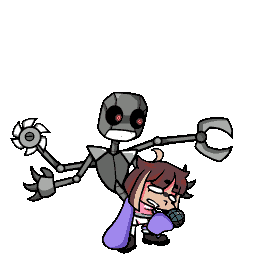
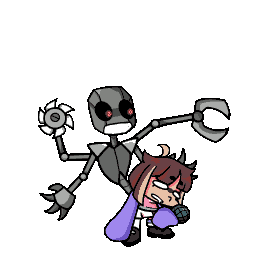
amogusus

Changed region(s): [[0.0312, 0.3125, 0.9375, 1.0]]

diff --git a/src/stage/week2.c b/src/stage/week2.c
@@ -222,7 +222,7 @@ static const CharFrame smoke_frame[18] = {
 static const Animation smoke_anim[1] = {
 
 	//idle smoke
-	{2, (const u8[]){0, 1, 2, 3, 4, 5, 6, 7, 8, 9, 6, 7, 8, 9, 6, 7, 8, 9, 6, 7, 8, 9, 6, 7, 8, 9, 6, 7, 8, 9, 6, 7, 8, 9, 6, 7, 8, 9, 6, 7, 8, 9, 6, 7, 8, 9, 6, 7, 8, 9, 6, 7, 8, 9, 6, 7, 8, 9, 6, 7, 8, 9, 6, 7, 8, 9, 6, 7, 8, 9, 6, 7, 8, 9, 6, 7, 8, 9, 6, 7, 8, 9, 6, 7, 8, 9, 6, 7, 8, 9, 6, 7, 8, 9, 6, 7, 8, 9, 6, 7, 8, 9, 6, 7, 8, 9, 6, 7, 8, 9, 6, 7, 8, 9, 6, 7, 8, 9, 6, 7, 8, 9, 6, 7, 8, 9, 6, 7, 8, 9, 6, 7, 8, 9, 6, 7, 8, 9, 10, 11, 12, 13, 14, 15, 16, 17, ASCR_BACK, 0}}, 
+	{2, (const u8[]){0, 1, 2, 3, 4, 5, 6, 7, 8, 9, 10, 11, 12, 13, 14, 15, 16, 17, ASCR_BACK, 0}}, 
 };
 
 //tv0 functions
@@ -505,7 +505,7 @@ void Back_Week2_DrawFG(StageBack *back)
 	Animatable_Animate(&this->smoke_animatable, (void*)this, Week2_smoke_SetFrame);	
 	Week2_smoke_Draw(this, FIXED_DEC(120,1), FIXED_DEC(120,1));
 
-	if (cooldown == 70)
+	if (cooldown == 38)
 	{
 	cooldown = 0;
 	smoke = 0;
@@ -520,12 +520,6 @@ void Back_Week2_DrawBG(StageBack *back)
 	fx = stage.camera.x;
 	fy = stage.camera.y;
 
-	//idle tv
-	Animatable_Animate(&this->tv0left_animatable, (void*)this, Week2_tv0l_SetFrame);
-	Week2_tv0l_Draw(this, FIXED_DEC(40,1) - fx, FIXED_DEC(37,1) - fy);
-    
-	Animatable_Animate(&this->tv0right_animatable, (void*)this, Week2_tv0_SetFrame);
-	Week2_tv0_Draw(this, FIXED_DEC(360,1) - fx, FIXED_DEC(43,1) - fy);
 /*
 	░█████╗░░█████╗░██████╗░███████╗██╗░░░░░███████╗░██████╗░██████╗
 	██╔══██╗██╔══██╗██╔══██╗██╔════╝██║░░░░░██╔════╝██╔════╝██╔════╝
@@ -623,19 +617,9 @@ void Back_Week2_DrawBG(StageBack *back)
 	░╚════╝░░░░╚═╝░░░╚══════╝╚═╝░░╚═╝╚══════╝░╚════╝░╚═╝░░╚═╝╚═════╝░*/
 
 	case StageId_1_3:
-      
-	 if (stage.timercount >= 13392)
-	{
-
-    Animatable_Animate(&this->tv0bsodleft_animatable, (void*)this, Week2_tv0l_SetFrame);
     
-	Animatable_Animate(&this->tv0bsodright_animatable, (void*)this, Week2_tv0_SetFrame);
-
-	
-
-  }
 	//eye
-    if (stage.song_step >= 256 && stage.song_step <= 316)
+    if (stage.timercount >= 1311 && stage.timercount <= 1613)
 	{
 	Animatable_Animate(&this->tv0eyeleft_animatable, (void*)this, Week2_tv0l_SetFrame);
 
@@ -643,7 +627,7 @@ void Back_Week2_DrawBG(StageBack *back)
 	}
 	
     //drop
-	if (stage.song_step >= 960 && stage.song_step <= 1215)
+	if (stage.timercount >= 4629 && stage.timercount <= 5836)
 	{
 	Animatable_Animate(&this->tv0dicleft_animatable, (void*)this, Week2_tv0l_SetFrame);
     
@@ -651,7 +635,7 @@ void Back_Week2_DrawBG(StageBack *back)
 	}
 
     //warning
-	if (stage.song_step >= 1216 && stage.song_step <= 1728)
+	if (stage.timercount >= 5837 && stage.timercount <= 8256)
 	{
 	Animatable_Animate(&this->tv0wleft_animatable, (void*)this, Week2_tv0l_SetFrame);
 
@@ -659,7 +643,7 @@ void Back_Week2_DrawBG(StageBack *back)
 	}
 
     //eye
-	if (stage.song_step >= 2232 && stage.song_step <= 2240)
+	if (stage.timercount >= 10634 && stage.timercount <= 10671)
 	{
 	Animatable_Animate(&this->tv0eyeleft_animatable, (void*)this, Week2_tv0l_SetFrame);
     
@@ -667,7 +651,7 @@ void Back_Week2_DrawBG(StageBack *back)
 	}
 
 	//error
-	if (stage.song_step >= 2808 && stage.song_step <= 2815)
+	if (stage.timercount >= 13354 && stage.timercount <= 13392)
 	{
 	Animatable_Animate(&this->tv0errleft_animatable, (void*)this, Week2_tv0l_SetFrame);
     
@@ -675,7 +659,7 @@ void Back_Week2_DrawBG(StageBack *back)
 	}
 
 	//bsod
-	if (stage.song_step >= 2816 && stage.song_step <= 3326)
+	if (stage.timercount >= 13392 && stage.timercount <= 15811)
 	{
 	Animatable_Animate(&this->tv0bsodleft_animatable, (void*)this, Week2_tv0l_SetFrame);
     
@@ -683,7 +667,7 @@ void Back_Week2_DrawBG(StageBack *back)
 	}
 
     //warning
-	if (stage.song_step >= 3327 && stage.song_step <= 3840)
+	if (stage.timercount >= 15812 && stage.timercount <= 18237)
 	{
 	Animatable_Animate(&this->tv0wleft_animatable, (void*)this, Week2_tv0l_SetFrame);
 
@@ -696,8 +680,32 @@ break;
 
 
 }
+
+
+/*	████████╗███████╗██████╗░███╗░░░███╗██╗███╗░░██╗░█████╗░████████╗███████╗
+	╚══██╔══╝██╔════╝██╔══██╗████╗░████║██║████╗░██║██╔══██╗╚══██╔══╝██╔════╝
+	░░░██║░░░█████╗░░██████╔╝██╔████╔██║██║██╔██╗██║███████║░░░██║░░░█████╗░░
+	░░░██║░░░██╔══╝░░██╔══██╗██║╚██╔╝██║██║██║╚████║██╔══██║░░░██║░░░██╔══╝░░
+	░░░██║░░░███████╗██║░░██║██║░╚═╝░██║██║██║░╚███║██║░░██║░░░██║░░░███████╗
+	░░░╚═╝░░░╚══════╝╚═╝░░╚═╝╚═╝░░░░░╚═╝╚═╝╚═╝░░╚══╝╚═╝░░╚═╝░░░╚═╝░░░╚══════╝ */ 
+
+	//error
+	if (stage.stage_id == StageId_2_1 && stage.timercount >= 602)
+	{
+	Animatable_Animate(&this->tv0errleft_animatable, (void*)this, Week2_tv0l_SetFrame);
+    
+	Animatable_Animate(&this->tv0errright_animatable, (void*)this, Week2_tv0_SetFrame);
+	}
+
+	//idle tv
+	Animatable_Animate(&this->tv0left_animatable, (void*)this, Week2_tv0l_SetFrame);
+	Week2_tv0l_Draw(this, FIXED_DEC(40,1) - fx, FIXED_DEC(37,1) - fy);
+    
+	Animatable_Animate(&this->tv0right_animatable, (void*)this, Week2_tv0_SetFrame);
+	Week2_tv0_Draw(this, FIXED_DEC(360,1) - fx, FIXED_DEC(43,1) - fy);
+	
 	//Draw bsod background
-	if (stage.stage_id == StageId_1_3 && stage.timercount >= 13392) 
+	if (stage.stage_id == StageId_1_3 && stage.timercount >= 13392 && stage.timercount <=15811) 
 	{
 	RECT bsod_src = {0, 0, 256, 256};
 	RECT_FIXED bsod_dst = {
@@ -711,7 +719,7 @@ break;
 	}
 
 	//Draw error background
-	if (stage.stage_id == StageId_1_3 && stage.song_step >= 2808 && stage.song_step <= 2815) 
+	if (stage.stage_id == StageId_1_3 && stage.timercount >=13354 && stage.timercount <= 13392) 
 	{
 	RECT error_src = {0, 0, 256, 256};
 	RECT_FIXED error_dst = {

diff --git a/src/character/bot.c b/src/character/bot.c
@@ -18,28 +18,14 @@ enum
 	bot_ArcMain_Idle1,
 	bot_ArcMain_Idle2,
 	bot_ArcMain_Idle3,
-	bot_ArcMain_Idle4,
-	bot_ArcMain_Idle5,
-	bot_ArcMain_Idle6,
-	bot_ArcMain_Idle7,
-	bot_ArcMain_Idle8,
-	bot_ArcMain_Idle9,
 	bot_ArcMain_Left0,
 	bot_ArcMain_Left1,
-	bot_ArcMain_Left2,
-	bot_ArcMain_Left3,
 	bot_ArcMain_Down0,
 	bot_ArcMain_Down1,
-	bot_ArcMain_Down2,
-	bot_ArcMain_Down3,
 	bot_ArcMain_Up0,
 	bot_ArcMain_Up1,
-	bot_ArcMain_Up2,
-	bot_ArcMain_Up3,
 	bot_ArcMain_Right0,
 	bot_ArcMain_Right1,
-	bot_ArcMain_Right2,
-	bot_ArcMain_Right3,
 	
 	bot_Arc_Max,
 };
@@ -60,46 +46,33 @@ typedef struct
 //bot character definitions
 static const CharFrame char_bot_frame[] = {
 	{bot_ArcMain_Idle0, {  18,   89, 202, 163}, { 114, 163}}, 
-	{bot_ArcMain_Idle1, {  17,   93, 217, 161}, { 123, 161}}, 
-	{bot_ArcMain_Idle2, {  10,   88, 223, 161}, { 124, 161}}, 
-	{bot_ArcMain_Idle3, {  10,   92, 223, 162}, { 126, 162}}, 
-	{bot_ArcMain_Idle4, {  8,    93, 214, 162}, { 120, 162}},  
-	{bot_ArcMain_Idle5, {  27,   90, 200, 163}, { 106, 163}},  
-	{bot_ArcMain_Idle6, {  38,   86, 193, 161}, { 103, 161}},  
-	{bot_ArcMain_Idle7, {  37,   86, 188, 163}, { 103, 163}},  
-	{bot_ArcMain_Idle8, {  36,   86, 191, 165}, { 103, 165}},  
-	{bot_ArcMain_Idle9, {  30,   83, 200, 166}, { 112, 166}},  
+	{bot_ArcMain_Idle1, {  10,   88, 223, 161}, { 124, 161}}, 
+	{bot_ArcMain_Idle2, {  8,    93, 214, 162}, { 120, 162}},  
+	{bot_ArcMain_Idle3, {  38,   86, 193, 161}, { 103, 161}}, 
 	
 	{bot_ArcMain_Left0, {  17,   62, 186, 190}, { 144, 190}},  
 	{bot_ArcMain_Left1, {  39,   61, 186, 191}, { 141, 191}},  
-	{bot_ArcMain_Left2, {  13,   56, 183, 197}, { 141, 197}},  
-	{bot_ArcMain_Left3, {  34,   49, 182, 199}, { 141, 199}},  
 	
 	{bot_ArcMain_Down0, {  32,   106, 178, 147}, { 121, 147}},  
 	{bot_ArcMain_Down1, {  14,   106, 182, 146}, { 120, 146}},  
-	{bot_ArcMain_Down2, {  25,   98,  192, 144}, { 121, 144}},  
-	{bot_ArcMain_Down3, {  29,   108, 203, 140}, { 127, 140}}, 
+
 	
 	{bot_ArcMain_Up0, {  18,   58, 206, 193}, { 123, 193}},  
-	{bot_ArcMain_Up1, {  13,   60, 207, 193}, { 124, 193}},  
-	{bot_ArcMain_Up2, {  25,   52, 201, 192}, { 122, 192}},  
-	{bot_ArcMain_Up3, {  25,   54, 199, 194}, { 119, 194}},  
+	{bot_ArcMain_Up1, {  13,   60, 207, 193}, { 124, 193}},   
 
 	{bot_ArcMain_Right0, {  55,   103, 150, 151}, { 52, 151}},  
-	{bot_ArcMain_Right1, {  61,   100, 151, 151}, { 53, 151}},  
-	{bot_ArcMain_Right2, {  66,   103, 146, 152}, { 54, 152}},  
-	{bot_ArcMain_Right3, {  67,   99, 141, 152}, { 54, 152}},  
+	{bot_ArcMain_Right1, {  61,   100, 151, 151}, { 53, 151}},   
 };
 
 static const Animation char_bot_anim[CharAnim_Max] = {
-    {2, (const u8[]){ 0, 1, 2, 3, 4, 5, 6, 7, 8, 9, ASCR_CHGANI, CharAnim_Idle}}, //CharAnim_Idle
-	{2, (const u8[]){ 10, 11, 12, 13, ASCR_BACK, 1}},         //CharAnim_Left
+    {2, (const u8[]){ 0, 1, 1, 2, 3, ASCR_CHGANI, CharAnim_Idle}}, //CharAnim_Idle
+	{2, (const u8[]){ 4, 5, ASCR_BACK, 1}},         //CharAnim_Left
 	{0, (const u8[]){ASCR_CHGANI, CharAnim_Idle}},   //CharAnim_LeftAlt
-	{2, (const u8[]){ 14, 15, 16, 17, ASCR_BACK, 1}},         //CharAnim_Down
+	{2, (const u8[]){ 6, 7, ASCR_BACK, 1}},         //CharAnim_Down
 	{0, (const u8[]){ASCR_CHGANI, CharAnim_Idle}},   //CharAnim_DownAlt
-	{2, (const u8[]){ 18, 19, 20, 21, ASCR_BACK, 1}},         //CharAnim_Up
+	{2, (const u8[]){ 8, 9, ASCR_BACK, 1}},         //CharAnim_Up
 	{0, (const u8[]){ASCR_CHGANI, CharAnim_Idle}},   //CharAnim_UpAlt
-	{2, (const u8[]){ 22, 23, 24, 25, ASCR_BACK, 1}},         //CharAnim_Right
+	{2, (const u8[]){ 10, 11, ASCR_BACK, 1}},         //CharAnim_Right
 	{0, (const u8[]){ASCR_CHGANI, CharAnim_Idle}},   //CharAnim_RightAlt
 };
 
@@ -182,28 +155,14 @@ Character *Char_bot_New(fixed_t x, fixed_t y)
 		"idle1.tim", 
 		"idle2.tim", 
 		"idle3.tim", 
-		"idle4.tim", 
-		"idle5.tim", 
-		"idle6.tim", 
-		"idle7.tim", 
-		"idle8.tim", 
-		"idle9.tim", 
 		"left0.tim", 
 		"left1.tim", 
-		"left2.tim", 
-		"left3.tim", 
 		"down0.tim",  
-		"down1.tim",  
-		"down2.tim",  
-		"down3.tim",  
+		"down1.tim",   
 		"up0.tim", 
 		"up1.tim", 
-		"up2.tim", 
-		"up3.tim",    
 		"right0.tim", 
 		"right1.tim", 
-		"right2.tim", 
-		"right3.tim", 
 		NULL
 	};
 	IO_Data *arc_ptr = this->arc_ptr;

diff --git a/src/character/gf.c b/src/character/gf.c
@@ -20,6 +20,7 @@ enum
 	GF_ArcMain_BopLeft,
 	GF_ArcMain_BopRight,
 	GF_ArcMain_Cry,
+	GF_ArcMain_UpAlt,
 	
 	GF_Arc_Max,
 };
@@ -39,8 +40,6 @@ typedef struct
 	//Speaker
 	Speaker speaker;
 	
-	//Pico test
-	u16 *pico_p;
 } Char_GF;
 
 //GF character definitions
@@ -61,6 +60,11 @@ static const CharFrame char_gf_frame[] = {
 	
 	{GF_ArcMain_Cry, {  0,   0,  73, 101}, { 37,  73}}, //12 cry
 	{GF_ArcMain_Cry, { 73,   0,  73, 101}, { 37,  73}}, //13 cry
+
+	{GF_ArcMain_UpAlt, {  0,   0,  77, 98}, { 43,  74}}, //14
+	{GF_ArcMain_UpAlt, {  77,   0,  77, 98}, { 43,  74}}, //15
+	{GF_ArcMain_UpAlt, {  0,   98,  77, 98}, { 43,  74}}, //16
+	{GF_ArcMain_UpAlt, {  77,   98,  77, 98}, { 43,  74}}, //17
 };
 
 static const Animation char_gf_anim[CharAnim_Max] = {
@@ -68,9 +72,9 @@ static const Animation char_gf_anim[CharAnim_Max] = {
 	{1, (const u8[]){ 0,  0,  1,  1,  2,  2,  3,  4,  4,  5, ASCR_BACK, 1}}, //CharAnim_Left
 	{0, (const u8[]){ASCR_CHGANI, CharAnim_Left}},                           //CharAnim_LeftAlt
 	{2, (const u8[]){12, 13, ASCR_REPEAT}},                                  //CharAnim_Down
-	{0, (const u8[]){ASCR_CHGANI, CharAnim_Left}},                           //CharAnim_DownAlt
+	{2, (const u8[]){ 14, 15, 16, 17, ASCR_BACK, 1}},                           //CharAnim_DownAlt
 	{0, (const u8[]){ASCR_CHGANI, CharAnim_Left}},                           //CharAnim_Up
-	{0, (const u8[]){ASCR_CHGANI, CharAnim_Left}},                           //CharAnim_UpAlt
+	{2, (const u8[]){ 14, 15, 16, 17, ASCR_BACK, 1}},         //CharAnim_UpAlt
 	{1, (const u8[]){ 6,  6,  7,  7,  8,  8,  9, 10, 10, 11, ASCR_BACK, 1}}, //CharAnim_Right
 	{0, (const u8[]){ASCR_CHGANI, CharAnim_Left}},                           //CharAnim_RightAlt
 };
@@ -94,13 +98,23 @@ void Char_GF_Tick(Character *character)
 {
 	Char_GF *this = (Char_GF*)character;
 	
-	
+	if (stage.stage_id == StageId_1_3 && stage.timercount >= 13392 && stage.timercount <= 15811)
+	character->set_anim(character, CharAnim_UpAlt);
+
 		if (stage.flag & STAGE_FLAG_JUST_STEP)
 		{
 			//Perform dance
 			if ((stage.song_step % stage.gf_speed) == 0)
 			{
 				//Switch animation
+
+				if (character->animatable.anim == CharAnim_Left && stage.stage_id == StageId_1_3 && stage.timercount >= 13392 && stage.timercount <= 15811)
+                    character->set_anim(character, CharAnim_UpAlt);
+
+			    if (character->animatable.anim == CharAnim_Right && stage.stage_id == StageId_1_3 && stage.timercount >= 13392 && stage.timercount <= 15811)
+                    character->set_anim(character, CharAnim_DownAlt);
+
+
 				if (character->animatable.anim == CharAnim_Left)
 					character->set_anim(character, CharAnim_Right);
 				else
@@ -169,6 +183,7 @@ Character *Char_GF_New(fixed_t x, fixed_t y)
 		"bopleft.tim",  //GF_ArcMain_BopLeft
 		"bopright.tim", //GF_ArcMain_BopRight
 		"cry.tim",      //GF_ArcMain_Cry
+		"scared.tim",      //GF_ArcMain_Cry
 		NULL
 	};
 	IO_Data *arc_ptr = this->arc_ptr;

diff --git a/src/stagedef_disc1.h b/src/stagedef_disc1.h
@@ -12,7 +12,7 @@
 		1, 1,
 		XA_Bopeebo, 0,
 		
-		StageId_1_2, STAGE_LOAD_FLAG
+		StageId_1_2, STAGE_LOAD_FLAG | STAGE_LOAD_STAGE | STAGE_LOAD_OPPONENT
 	},
 	{ //StageId_1_2 (Careless)
 		//Characters
@@ -28,7 +28,7 @@
 		1, 2,
 		XA_Fresh, 2,
 		
-		StageId_1_3, STAGE_LOAD_FLAG
+		StageId_1_3, STAGE_LOAD_OPPONENT
 	},
 	{ //StageId_1_3 (Censory-Overload)
 		//Characters
@@ -44,7 +44,7 @@
 		1, 3,
 		XA_Dadbattle, 0,
 		
-		StageId_1_3, 0
+		StageId_2_1, STAGE_LOAD_FLAG
 	},
 	{ //StageId_1_4 (NULL)
 		//Characters
@@ -60,7 +60,7 @@
 		1, 4,
 		XA_Tutorial, 2,
 		
-		StageId_1_4, 0
+		StageId_2_1, 0
 	},
 	
 	{ //StageId_2_1 (Terminate)
@@ -77,7 +77,7 @@
 		2, 1,
 		XA_Spookeez, 0,
 		
-		StageId_2_2, STAGE_LOAD_FLAG
+		StageId_2_1, 0
 	},
 	{ //StageId_2_2 (Termination)
 		//Characters

diff --git a/src/character.h b/src/character.h
@@ -25,7 +25,8 @@ typedef enum
 	CharAnim_Down,  CharAnim_DownAlt,
 	CharAnim_Up,    CharAnim_UpAlt,
 	CharAnim_Right, CharAnim_RightAlt,
-	
+	CharAnim_Scared, 
+
 	CharAnim_Max //Max standard/shared animation
 } CharAnim;
 
